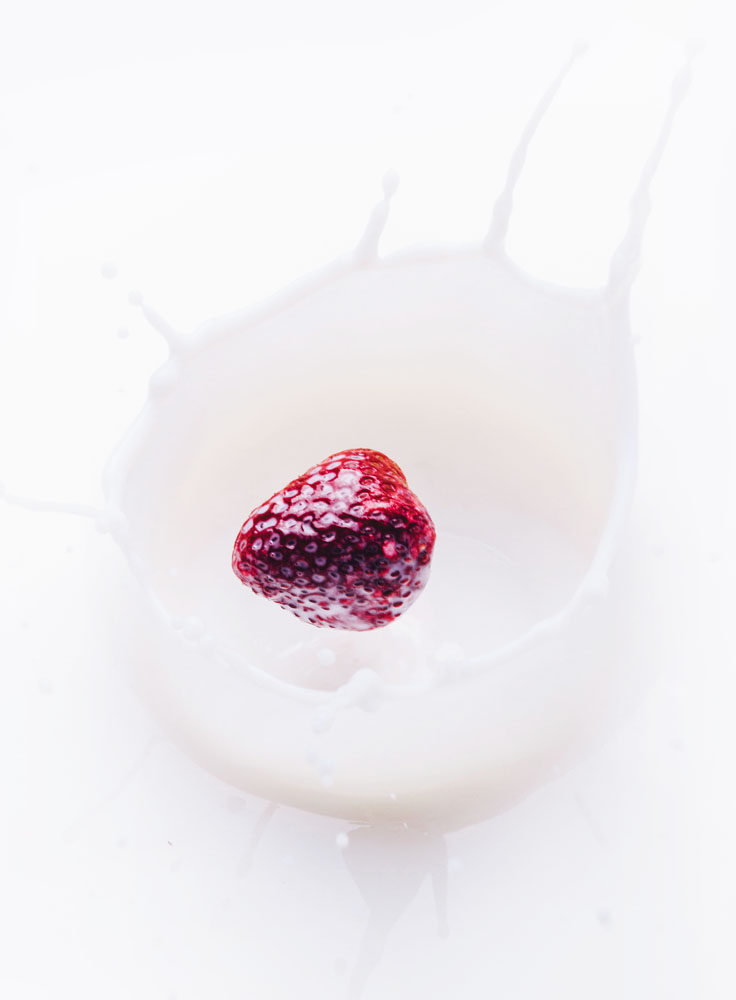
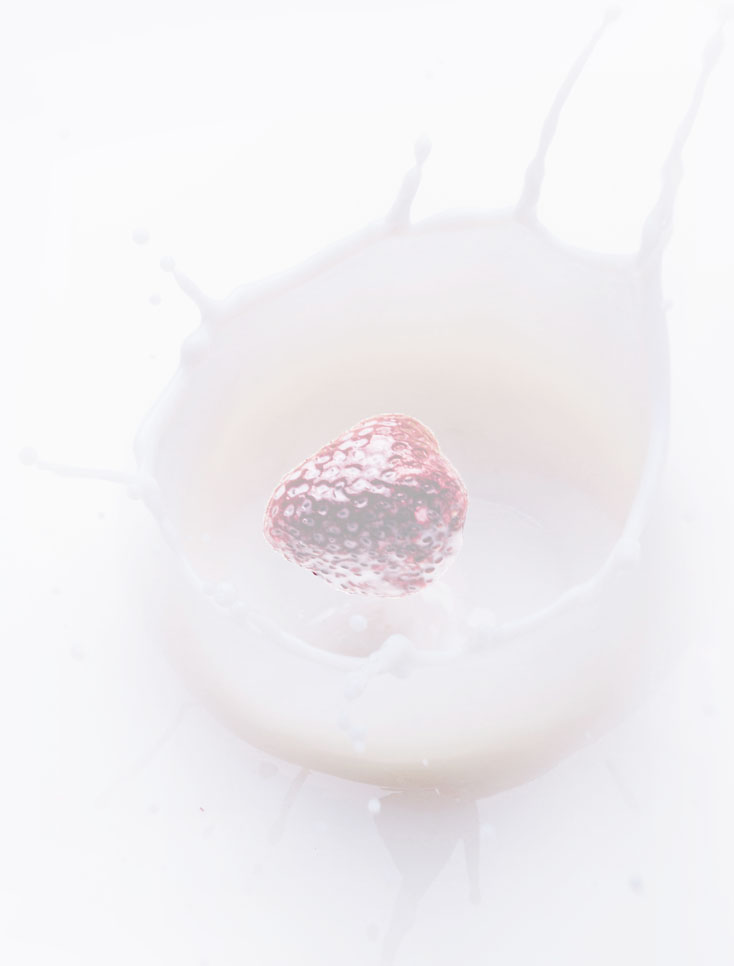
after changing strawberry <im> to background image

Changed region(s): [[0.2997, 0.4348, 0.6294, 0.6522], [0.4196, 0.8075, 0.5395, 0.8385]]

diff --git a/css/style.css b/css/style.css
@@ -102,16 +102,13 @@ body {
 
 /* line 2, sass/components/_header.scss */
 .header {
-  position: absolute;
-  top: 0;
-  left: 0;
   width: 100%;
   display: flex;
   justify-content: space-between;
   align-items: center;
 }
 
-/* line 12, sass/components/_header.scss */
+/* line 11, sass/components/_header.scss */
 .header__brand {
   font-family: "Pacifico", cursive;
   font-size: 5rem;
@@ -119,13 +116,13 @@ body {
 }
 
 @media (max-width: 81.25em) {
-  /* line 12, sass/components/_header.scss */
+  /* line 11, sass/components/_header.scss */
   .header__brand {
     font-size: 4.4rem;
   }
 }
 
-/* line 23, sass/components/_header.scss */
+/* line 22, sass/components/_header.scss */
 .header__navbar {
   display: flex;
   font-size: 1.6rem;
@@ -134,13 +131,13 @@ body {
 }
 
 @media (max-width: 56.25em) {
-  /* line 23, sass/components/_header.scss */
+  /* line 22, sass/components/_header.scss */
   .header__navbar {
     display: none;
   }
 }
 
-/* line 34, sass/components/_header.scss */
+/* line 33, sass/components/_header.scss */
 .header__link {
   padding: 0.4rem 0.3rem;
   margin: 0 1.6rem;
@@ -150,57 +147,60 @@ body {
   border-top: 2px solid transparent;
 }
 
-/* line 41, sass/components/_header.scss */
+/* line 40, sass/components/_header.scss */
 .header__link:hover {
   border-top: 2px solid #ff6033;
 }
 
-/* line 44, sass/components/_header.scss */
+/* line 43, sass/components/_header.scss */
 .header__link:last-child {
   margin-right: 0;
 }
 
 /* line 2, sass/sections/_fresh-life.scss */
 .fresh-life {
-  background-color: #f9f8fb;
+  background-color: aqua;
 }
 
 /* line 9, sass/sections/_fresh-life.scss */
 .fresh-life__container {
-  position: relative;
+  background: url(/img/092.jpg) right center no-repeat/cover, yellow;
   max-width: 117rem;
+  height: 85rem;
   margin: 0 auto;
-  border-top: 1.5rem solid transparent;
-  border-left: 5rem solid transparent;
-  border-right: 5rem solid transparent;
+  padding: 1.5rem 8rem 5.5rem;
+  display: flex;
+  flex-direction: column;
+  justify-content: space-between;
+  align-items: center;
 }
 
-/* line 19, sass/sections/_fresh-life.scss */
-.fresh-life__image {
-  display: block;
-  width: 100%;
-}
-
-/* line 25, sass/sections/_fresh-life.scss */
-.fresh-life__text-and-link-box {
-  width: 34%;
-  position: absolute;
-  top: 50%;
-  transform: translateY(-50%);
-}
-
-@media (max-width: 56.25em) {
-  /* line 25, sass/sections/_fresh-life.scss */
-  .fresh-life__text-and-link-box {
-    width: 41%;
-    top: 10%;
-    left: 50%;
-    transform: translateX(-50%);
-    text-align: center;
+@media (max-width: 62.5em) {
+  /* line 9, sass/sections/_fresh-life.scss */
+  .fresh-life__container {
+    background: url("/img/092-cropped.jpg") top center no-repeat/cover;
   }
 }
 
-/* line 40, sass/sections/_fresh-life.scss */
+/* line 29, sass/sections/_fresh-life.scss */
+.fresh-life__text-and-link-box {
+  width: 34%;
+  align-self: flex-start;
+  display: flex;
+  flex-direction: column;
+  align-items: flex-start;
+}
+
+@media (max-width: 62.5em) {
+  /* line 29, sass/sections/_fresh-life.scss */
+  .fresh-life__text-and-link-box {
+    width: 100%;
+    align-self: center;
+    transform: translateY(-16rem);
+  }
+}
+
+/* line 45, sass/sections/_fresh-life.scss */
 .fresh-life__heading {
   font-size: 6rem;
   font-weight: 800;
@@ -208,30 +208,30 @@ body {
 }
 
 @media (max-width: 81.25em) {
-  /* line 40, sass/sections/_fresh-life.scss */
+  /* line 45, sass/sections/_fresh-life.scss */
   .fresh-life__heading {
     font-size: 4.6rem;
   }
 }
 
 @media (max-width: 56.25em) {
-  /* line 40, sass/sections/_fresh-life.scss */
+  /* line 45, sass/sections/_fresh-life.scss */
   .fresh-life__heading {
     font-size: 5.7rem;
   }
 }
 
-/* line 53, sass/sections/_fresh-life.scss */
+/* line 58, sass/sections/_fresh-life.scss */
 .fresh-life__description {
   font-size: 1.7rem;
   font-weight: 300;
   margin-bottom: 4rem;
 }
 
-/* line 60, sass/sections/_fresh-life.scss */
+/* line 71, sass/sections/_fresh-life.scss */
 .fresh-life__link {
   display: inline-block;
-  padding: 2rem 2.5rem;
+  padding: 1.5rem 2.2rem;
   font-size: 2rem;
   font-weight: 300;
   text-transform: uppercase;
@@ -242,10 +242,21 @@ body {
   box-shadow: 0px 0.2rem 0.5rem rgba(0, 0, 0, 0.5);
 }
 
-/* line 74, sass/sections/_fresh-life.scss */
+@media (max-width: 62.5em) {
+  /* line 71, sass/sections/_fresh-life.scss */
+  .fresh-life__link {
+    align-self: flex-end;
+  }
+}
+
+@media (max-width: 43.75em) {
+  /* line 71, sass/sections/_fresh-life.scss */
+  .fresh-life__link {
+    transform: translateY(30rem);
+  }
+}
+
+/* line 91, sass/sections/_fresh-life.scss */
 .fresh-life__icon {
-  position: absolute;
   bottom: 3rem;
-  left: 50%;
-  transform: translateX(-50%);
 }

diff --git a/sass/sections/_fresh-life.scss b/sass/sections/_fresh-life.scss
@@ -1,38 +1,43 @@
 /// <section> FRESH LIFE
 .fresh-life {
-	background-color: $creamy-color;
-	@media(max-width: em(900)) {
-
-	}
+	background-color: aqua;
+	// background-color: $creamy-color;
+	
+	@media(max-width: em(900)) {	}
 
 	//. <div> CONTAINER
 	&__container {
-		position: relative;
+		background: url(/img/092.jpg) right center no-repeat /cover, yellow;
 		max-width: $container-width;
+		// height: calc(#{$container-width} / 3 * 2 + 7rem);
+		height: 85rem;
 		margin: 0 auto;
-		border-top: 1.5rem solid transparent;
-		border-left: 5rem solid transparent;
-		border-right: 5rem solid transparent;
-	}
-
-	//, <img> IMAGE
-	&__image {
-		display: block;
-		width: 100%;
+		padding: 1.5rem 8rem 5.5rem;
+		display: flex;
+		flex-direction: column;
+		justify-content: space-between;
+		align-items: center;
+		@media(max-width: em(1000)) {
+			background: url("/img/092-cropped.jpg") top center no-repeat /cover;
+		}
+		@media(max-width: em(700)) {
+			// padding-right: 0;
+		}
 	}
 
 	//, <div> BOX FOR THE HEADING, DESCRIPTION, LINK
 	&__text-and-link-box {
+		// margin-bottom: 19.5rem;
 		width: 34%;
-		position: absolute;
-		top: 50%;
-		transform: translateY(-50%);
-		@media(max-width: em(900)) {
-			width: 41%;
-			top: 10%;
-			left: 50%;
-			transform: translateX(-50%);
-			text-align: center;
+		align-self: flex-start;
+		display: flex;
+		flex-direction: column;
+		align-items: flex-start;
+
+		@media(max-width: em(1000)) {
+			width: 100%;
+			align-self: center;
+			transform: translateY(-16rem);
 		}
 	}
 
@@ -54,12 +59,18 @@
 		font-size: 1.7rem;
 		font-weight: 300;
 		margin-bottom: 4rem;
+		@media(max-width: em(1000)) {
+
+		}
+		@media(max-width: em(700)) {
+
+		}
 	}
 
 	// <a> LINK
 	&__link {
 		display: inline-block;
-		padding: 2rem 2.5rem;
+		padding: 1.5rem 2.2rem;
 		font-size: 2rem;
 		font-weight: 300;
 		text-transform: uppercase;
@@ -68,13 +79,16 @@
 		color: white;
 		line-height: 2.7rem;
 		box-shadow: 0px .2rem .5rem rgba(0,0,0,0.5);
+		@media(max-width: em(1000)) {
+			align-self: flex-end;
+		}
+		@media(max-width: em(700)) {
+			transform: translateY(30rem);
+		}
 	}
 
 	//, <img> ICON AT THE BOTTOM OF THE SECTION
 	&__icon {
-		position: absolute;
 		bottom: 3rem;
-		left: 50%;
-		transform: translateX(-50%);
 	}
 }

diff --git a/index.html b/index.html
@@ -18,11 +18,6 @@
     <!--. CONTAINER -->
     <div class="fresh-life__container">
 
-      <!--, BACKGROUND IMAGE -->
-      <picture>
-        <source class="fresh-life__image" srcset="/img/092-cropped.jpg" media="(max-width: 900px)">
-        <img class="fresh-life__image" src="/img/092.jpg" alt="strawberry">
-      </picture>
       <!--, HEADER WITH NAVABAR  -->
       <div class="header">
         <h1 class="header__brand">Cahee</h1>

diff --git a/sass/components/_header.scss b/sass/components/_header.scss
@@ -1,9 +1,8 @@
 /// <div> HEADER includes NAVIGATION BAR
 .header {
-  position: absolute;
-  top: 0;
-  left: 0;
   width: 100%;
+  // margin-bottom: 19.5rem;
+  
   display: flex;
   justify-content: space-between;
   align-items: center;
